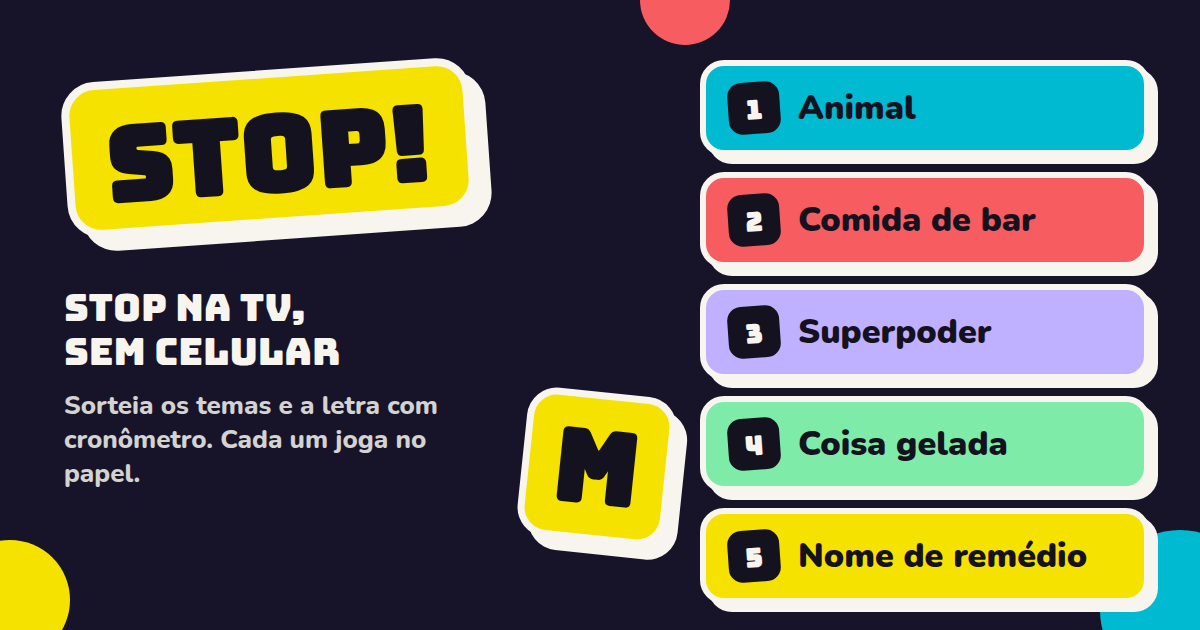
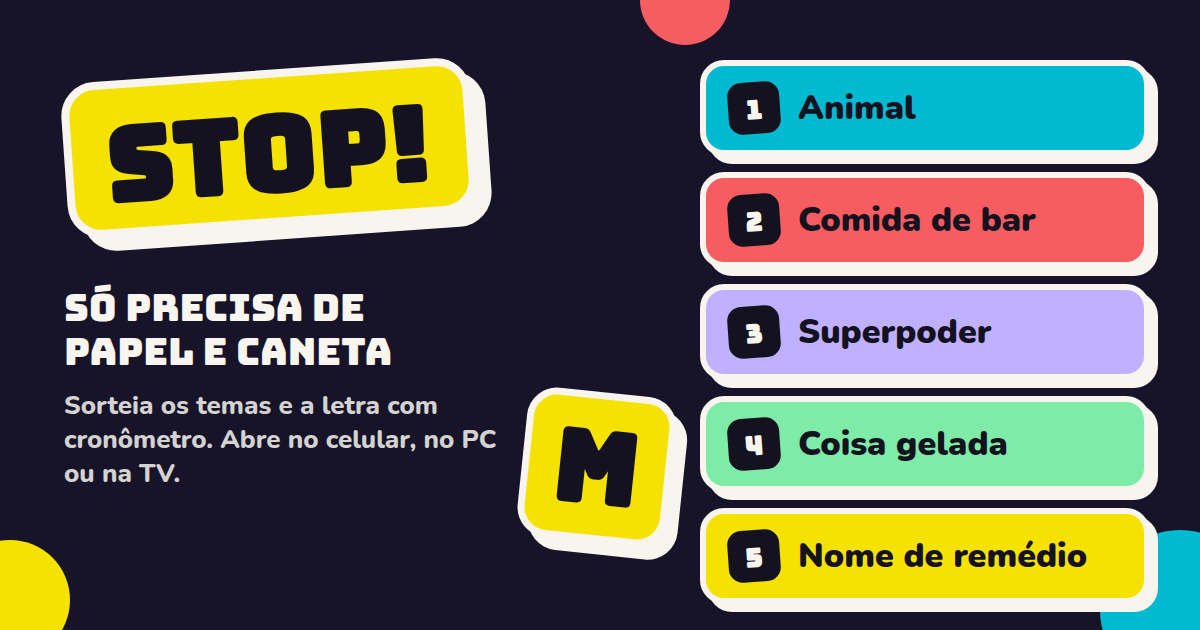
Stop: ícone e texto de divulgação sem TV (só papel e caneta)

Changed region(s): [[0.0617, 0.4524, 0.3392, 0.6032], [0.185, 0.6635, 0.4317, 0.7238], [0.0617, 0.7238, 0.1542, 0.7841]]

diff --git a/stop.html b/stop.html
@@ -4,17 +4,21 @@
 <meta charset="utf-8">
 <meta name="viewport" content="width=device-width,initial-scale=1">
 <title>Stop</title>
-<meta name="description" content="Stop na TV, sem celular: sorteia os temas e a letra com cronômetro, e cada um joga no papel.">
+<meta name="description" content="Stop que só precisa de papel e caneta: sorteia os temas e a letra com cronômetro. Abre no celular, no PC ou na TV.">
 <meta property="og:type" content="website">
 <meta property="og:site_name" content="Stop">
-<meta property="og:title" content="STOP! Stop na TV, sem celular">
-<meta property="og:description" content="Sorteia os temas e a letra com cronômetro. Cada um joga no papel. É só abrir no computador ligado na TV.">
+<meta property="og:title" content="STOP! Só precisa de papel e caneta">
+<meta property="og:description" content="Sorteia os temas e a letra com cronômetro. Abre no celular, no PC ou na TV e cada um joga no papel.">
 <meta property="og:url" content="https://brenisio.github.io/stop/stop.html">
 <meta property="og:image" content="https://brenisio.github.io/stop/og-stop.png">
 <meta property="og:image:type" content="image/png">
 <meta property="og:image:width" content="1200">
 <meta property="og:image:height" content="630">
 <meta name="twitter:card" content="summary_large_image">
+<link rel="icon" type="image/png" sizes="32x32" href="icone-32.png">
+<link rel="icon" type="image/png" sizes="192x192" href="icone-192.png">
+<link rel="apple-touch-icon" href="icone-180.png">
+<meta name="theme-color" content="#17142a">
 <script>
   (function(){
     var sis = matchMedia('(prefers-color-scheme: dark)');
@@ -251,7 +255,7 @@ function show(id){
 }
 // compartilhar: menu nativo (celular) ou WhatsApp Web; o preview vem das tags og: acima
 $("#btnShare").onclick = async () => {
-  const url = "https://brenisio.github.io/stop/stop.html", text = "Bora jogar Stop? Abre na TV:";
+  const url = "https://brenisio.github.io/stop/stop.html", text = "Bora jogar Stop? Só precisa de papel e caneta:";
   if(navigator.share){ try { await navigator.share({title: "Stop", text, url}); return; } catch(e){ if(e.name === "AbortError") return; } }
   open("https://wa.me/?text=" + encodeURIComponent(text + " " + url), "_blank", "noopener");
 };

diff --git a/banner-src/icone.html b/banner-src/icone.html
@@ -1,0 +1,11 @@
+<!doctype html>
+<html><head><meta charset="utf-8">
+<link rel="stylesheet" href="https://fonts.googleapis.com/css2?family=Bungee&display=swap">
+<style>
+html,body{margin:0;background:transparent}
+body{width:512px;height:512px;display:flex;align-items:center;justify-content:center}
+.i{width:512px;height:512px;border-radius:112px;background:#17142a;display:flex;align-items:center;justify-content:center;position:relative;overflow:hidden}
+.i::before{content:"";position:absolute;width:170px;height:170px;border-radius:50%;background:oklch(68% .19 22);right:-55px;top:-55px}
+.i::after{content:"";position:absolute;width:150px;height:150px;border-radius:50%;background:oklch(72% .13 210);left:-50px;bottom:-50px}
+.t{position:relative;z-index:1;width:340px;height:340px;background:oklch(90% .19 103);color:#15121f;border:20px solid #f6f3ea;border-radius:76px;box-shadow:24px 24px 0 #f6f3ea;transform:rotate(-6deg);display:flex;align-items:center;justify-content:center;font-family:Bungee;font-size:210px;line-height:1;padding-top:22px;letter-spacing:-8px}
+</style></head><body><div class="i"><div class="t">S!</div></div></body></html>

diff --git a/index.html b/index.html
@@ -31,7 +31,7 @@ a.card span { font-size: 16px; }
 <main>
   <h1><span class="tag">🎉 Jogos</span> do Aniversário</h1>
   <div class="jogos">
-    <a class="card c1" href="stop.html"><b>🛑 Stop</b><span>Sorteia 5 temas e a letra, com cronômetro na TV. Cada um por si, e a pontuação é no papel.</span></a>
+    <a class="card c1" href="stop.html"><b>🛑 Stop</b><span>Sorteia 5 temas e a letra, com cronômetro. Só precisa de papel e caneta.</span></a>
     <a class="card c2" href="mentira.html"><b>🤥 Mentira Convincente</b><span>Cada mesa inventa uma resposta; todo mundo vota em qual é a verdadeira.</span></a>
     <a class="card c3" href="folha-stop.html"><b>🖨 Folha do Stop</b><span>Uma por pessoa, A4 preto e branco: 8 rodadas na frente e a final no verso.</span></a>
   </div>

diff --git a/banner-src/og-stop.html b/banner-src/og-stop.html
@@ -20,8 +20,8 @@ p{font-size:26px;line-height:1.3;margin:0;opacity:.85;font-weight:800}
 <div class="b" style="width:90px;height:90px;left:640px;top:-45px;background:var(--coral)"></div>
 <div class="esq">
   <div class="tag">STOP!</div>
-  <h2>Stop na TV,<br>sem celular</h2>
-  <p>Sorteia os temas e a letra com cronômetro. Cada um joga no papel.</p>
+  <h2>Só precisa de<br>papel e caneta</h2>
+  <p>Sorteia os temas e a letra com cronômetro. Abre no celular, no PC ou na TV.</p>
 </div>
 <div class="dir">
   <div class="c" style="background:var(--turq)"><i>1</i>Animal</div>

diff --git a/README.md b/README.md
@@ -2,10 +2,10 @@
 
 Minigames para jogar em grupo com a TV espelhada (sem celular), por mesas.
 
-- `stop.html`: Stop com sorteio de 5 temas e depois da letra, com cronômetro. Cada um joga por si e toda a pontuação é no papel, dentro da mesa; a TV só sorteia temas e letra.
+- `stop.html`: Stop com sorteio de 5 temas e depois da letra, com cronômetro. Cada um joga por si e toda a pontuação é no papel, dentro da mesa; a página só sorteia temas e letra (abre no celular, PC ou TV).
 - `mentira.html`: Mentira Convincente. Cada mesa inventa uma resposta e todos votam na verdadeira.
 - `folha-stop.html` / `folha-stop.pdf`: folha individual A4 deitada, preto e branco, frente e verso: 8 rodadas de 5 temas na frente e a final (4 rodadas) no verso.
 - `tema.css`: visual compartilhado.
-- `og-stop.png`: banner do preview ao compartilhar o Stop (fonte em `banner-src/og-stop.html`, gerado com screenshot 1200×630 do Chrome headless).
+- `og-stop.png` / `icone-*.png`: banner do preview ao compartilhar e ícone do Stop. Fontes em `banner-src/`, geradas com screenshot do Chrome headless (1200×630 e 512×512).
 
 Atalhos: `F` tela cheia, `espaço` ação principal. O progresso fica salvo no navegador.
